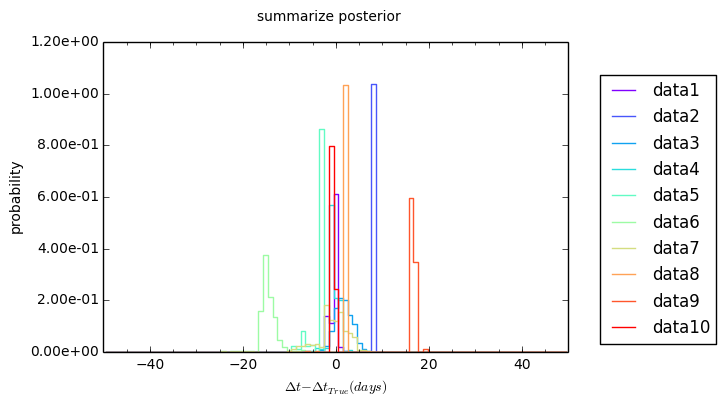
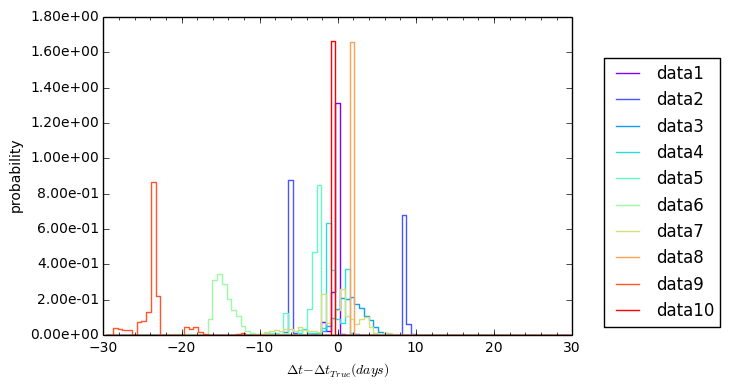
writing more docs

Changed region(s): [[0.0, 0.0308, 0.7879, 0.9231], [0.8182, 0.1231, 1.0, 0.8615], [0.3939, 0.9231, 0.5455, 0.9846]]

diff --git a/docs/desc-0000-sltimer-tdc2_gateway_analysis/main.tex b/docs/desc-0000-sltimer-tdc2_gateway_analysis/main.tex
@@ -15,6 +15,7 @@
 % Custom commands from LSST DESC, see texmf/styles/lsstdesc_macros.sty
 \usepackage{texmf/styles/lsstdesc_macros}
 \usepackage{graphics, graphicx}
+\usepackage{multirow}
 \graphicspath{{./}{./figures/}}
 \bibliographystyle{apj}
 
@@ -57,7 +58,7 @@ The paper will be structured as follows.  \textcolor{red}{more}
 \label{sec:method}
 In this section, we describe the process of our analysis step by step. 
 \subsection{Whitening method}
-The main difference between TDC2 and TDC1 data is that TDC2 tries to model the light curve taken by six different filter, which add additional variability to the light curves. We adopt the whitening method, which offsets the light curve to get a set of points that look more like they were taken in one filter. We test two kinds of whitening method. The first one is to offset  the magnitude of whole light curves to a common mean. The second one do the same thing as the first one, but instead of offsetting all the light curves, it offset light curves season by season. Obviously, the second one looks more reasonable because we don't expect that lightcurves in different bands have long term relations with each others. However, the second whitening will also introduced additional fluctuations to light curves, and will probably wash out the signal.  
+The main difference between TDC2 and TDC1 data is that TDC2 tries to model the light curve taken by six different filter, which add additional variability to the light curves. We adopt the whitening method, which offsets the light curve to get a set of points that look more like they were taken in one filter. We test two kinds of whitening method. The first one (which will be called Whitening 1 hereafter) is to offset  the magnitude of whole light curves to a common mean. The second one do the same thing as the first one, but instead of offsetting all the light curves, it offset light curves season by season. Obviously, the second one (which will be called Whitening 2 hereafter)looks more reasonable because we don't expect that lightcurves in different bands have long term relations with each others. However, the second whitening will also introduced additional fluctuations to light curves, and will probably wash out the signal.  
 
 \subsection{Additional Noise Model}
 We notice that the error in the lightcurve can be larger to the reported error in TDC2 data. For example, the data in different filters will have different mean amplitude. Though the difference is partially corrected by the whitening method, it will make our light curve noisier. The micro-lensing variability could also be different for data in different filters. Besides, the light curves are sampled at an average time step 4 days, and quasars might have some high frequency fluctuation, which will also add additional noise to our light curve. 
@@ -67,7 +68,7 @@ To address this issue, we assume a simple model with only one parameter $\sigma_
 \subsection{PyCS}
 PyCS is a package that implements free knot spline technique described by \cite{2013A&A...553A.120T}. It models both intrinsic quasar fluctuation and also fluctuation caused by micro-lensing with two spline functions. With the use of the PyCS package, we can compute the $\chi^2$ of the fitting for a given time delay $\Delta t$. 
 
-To analyze the data, we draw  a thousand time delay samples from -150 days to 150 days with a constant time step. For each time delay, we can compute a $\chi^2$. The log likelihood function, defined as $log(P(data \mid \Delta t))$, could be computed by the following formula,
+To analyze the data, we compute likelihood on 1000 time delay grids from -150 days to 150 days.  For each time delay, we can compute a $\chi^2$. The log likelihood function, defined as $log(P(data \mid \Delta t))$, could be computed by the following formula,
 \begin{equation}
 log(P(data \mid \Delta t))  = log (\Sigma_i  \frac{1}{\sqrt{2 \pi \sigma_i^2}} ) -\frac{1}{2} \chi^2,
 \end{equation}
@@ -132,10 +133,10 @@ $P(\Delta t \mid data) = P(data \mid \Delta t) P(\Delta t)$
 \label{sec:results}
 In this section, we'll show analysis on gateway one data as an example, and we'll give a summary posterior plot for all ten gateway data. The analysis on other 9 gateway data  will be leaved to the appendix. 
 \subsection{Analysis on gateway one data}
-We follow the methods described in section \ref{sec:method}. 
+We follow the methods described in section \ref{sec:method}.  For simplicity, in this subsection, I'll only show data that is whitened by whitening method 1. 
 \begin{enumerate}
-\item Determine $\sigma_{intrinsic}$: we need to determine $\sigma_{intrinsic}$. Fig \ref{fig:sigma1} shows how likelihood change with different $\sigma_{intrinsic}$ at different time delay. First, we find that there is a clear peak at $\sigma_{intrinsic}=0.202$, and this peak does not vary at different time delays. 
-Therefore, instead of sampling on $\sigma_{intrinsic}$ to time delay parameter space, we can find the optimal $\sigma_{intrinsic}$ at a given time delay first and then sample on time delay parameter space. 
+\item Determine $\sigma_{intrinsic}$: 
+Fig \ref{fig:sigma1} shows how likelihood change with different $\sigma_{intrinsic}$ at different time delay. First, we find that there is a clear peak at $\sigma_{intrinsic}=0.202$, and this peak does not vary at different time delays. In general, we need to compute likelihood on $\sigma_{intrinsic}$ to time delay parameter spaces. However, since the optimal $\sigma_{intrinsic}$ seems not varying for different time delay, we can find the optimal $\sigma_{intrinsic}$ at a given time delay first and then sample on time delay parameter space. 
 \begin{figure}[!h]
 \includegraphics[width=\textwidth, height=15cm, keepaspectratio]{sigma_0.png}
 \caption{Likelihood to $\sigma_{Intrinsic}$ plot}
@@ -143,17 +144,49 @@ Therefore, instead of sampling on $\sigma_{intrinsic}$ to time delay parameter s
 \end{figure}
 
 \item Compute Prior Likelihood and Posterior:
-We compute the prior by formula \ref{eqn:prior} and likelihood with the aid of PyCS code.  We combine the prior and likelihood to get posterior. The result is fig \ref{fig:log_data1}. 
+After finding the optimal $\sigma_{intrinsic}$, we rescale the noise of light curves by $\sigma_{new}=\sqrt{\sigma_{intrinsic}^2+\sigma_{old}^2}$. Then, we compute the prior by formula \ref{eqn:prior} and likelihood with the aid of PyCS code. The prior and likelihood will be combined to get posterior. Fig \ref{fig:log_data1} shows the result.  There are couples of things to be noticed. First, the constraint on time delay is improved from prior to posterior. Second, though prior information gives us a loose constraint on time delay, it damps some of the fake peaks on likelihood and helps us identify the true time delay on posterior. For example, though there is a clear peak at true time  delay on likelihood, there are some fake outliers at  $\Delta t =140$ to $150$ and $\Delta t =-130$ to $-150$. The prior, though gives a loose constraint on time delay, damps these outliers, which helps us identified true time delay from posterior. 
+
 \begin{figure}[!h]
 \includegraphics[width=\textwidth, height=15cm, keepaspectratio]{data1_full_log.png}
-\caption{Likelihood to $\sigma_{Intrinsic}$ plot}
+\caption{The top panel shows the likelihood distribution. The middle plot is the prior derived from equation \ref{eqn:prior}, and the bottom plot is the posterior $P(\Delta t \mid data)$ }. Dark dash line marks the correct time delay. 
 \label{fig:log_data1}
 \end{figure}
 \end{enumerate}
 
 
+\subsection{Summary of all ten gateway data sets}
+Fig \ref{fig:summary_post} and fig \ref{fig:summary_prior} show the posterior and prior distributions for all 10 data, which are also summarized in Table \ref{tab:summary}. 
+\begin{figure}[!h]
+\includegraphics[width=\textwidth, height=15cm, keepaspectratio]{summary_posterior_summary.png}
+\caption{}
+\label{fig:summary_post}
+\end{figure}
+\begin{figure}[!h]
+\includegraphics[width=\textwidth, height=15cm, keepaspectratio]{summary_prior_summary.png}
+\caption{}
+\label{fig:summary_prior}
+\end{figure}
 
-% ----------------------------------------------------------------------
+\begin{table}[]
+\centering
+\caption{My caption}
+\label{tab:summary}
+\begin{tabular}{|l|l|r|l|l|l|l|}
+\hline
+\multicolumn{1}{|c|}{\multirow{2}{*}{data}} & \multicolumn{2}{l|}{Prior}                                                    & \multicolumn{2}{l|}{Posterior (Whitening 1)}              & \multicolumn{2}{l|}{Posterior (Whitening 2)}              \\ \cline{2-7} 
+\multicolumn{1}{|c|}{}                      & $\delta\Delta t$(days) & \multicolumn{1}{l|}{$\delta\Delta t$(68$\%$) (days)} & $\delta\Delta t$ (days) & $\delta\Delta t$(68$\%$) (days) & $\delta\Delta t$ (days) & $\delta\Delta t$(68$\%$) (days) \\ \hline
+1                                           & 2.97                   & 3.90                                                 & -0.34                   & 0.30                            & -1.54                   & 1.50                            \\ \hline
+2                                           & -0.09                  & 2.85                                                 & -5.79                   & 7.36                            & -6.40                   & 0.30                            \\ \hline
+3                                           & 0.60                   & 3.45                                                 & 1.50                    & 1.80                            & 0.90                    & 0.75                            \\ \hline
+4                                           & 0.49                   & 1.65                                                 & -0.71                   & 1.35                            & -1.31                   & 0.90                            \\ \hline
+5                                           & 6.65                   & 6.91                                                 & -2.96                   & 0.60                            & -4.46                   & 2.25                            \\ \hline
+6                                           & -0.80                  & 4.05                                                 & -1.49                   & 1.35                            & -1.13                   & 10.8                            \\ \hline
+7                                           & 1.92                   & 3.75                                                 & -0.18                   & 3.45                            & 0.72                    & 4.5                             \\ \hline
+8                                           & 4.13                   & 7.96                                                 & 1.73                    & 0.15                            & 0.83                    & 2.10                            \\ \hline
+9                                           & -3.18                  & 9.01                                                 & -23.9                   & 1.05                            & -18.49                  & 2.70                            \\ \hline
+10                                          & -0.13                  & 3.00                                                 & -0.73                   & 0.15                            & -1.03                   & 0.15                            \\ \hline
+\end{tabular}
+\end{table}
 
 \section{Discussion}
 \label{sec:discussion}

diff --git a/python/desc/sltimer/worker.py b/python/desc/sltimer/worker.py
@@ -438,7 +438,12 @@ class SLTimer(object):
         ax.set_xlabel("$\Delta t - \Delta t_{True}(days)$")
         ax.set_ylabel("number of dataset")
         fig.savefig("{0}_summary_hist.png".format(outName))
-        print([tile84[index]-tile16[index] for index  in range(len(tile16))])
+
+        error = [(tile84[index]-tile16[index])/2.0 for index in range(len(tile16))]
+        print("medium: {0}".format(halftile))
+        print("68% error: {0}".format(error))
+        print("Accuracy: {0}".format(np.mean(np.array(halftile)/truth)))
+        print("Precision: {0}".format(np.mean(np.array(error)/truth)))
 
     def plot_likelihood_from_file(self, file_name,
                                   chisquare=False, likelihood=False, bins=20,
@@ -548,7 +553,7 @@ class SLTimer(object):
         ax1 = fig.add_subplot(gs[0, 0])
         ax2 = fig.add_subplot(gs[1, 0])
         ax3 = fig.add_subplot(gs[2, 0])
-        gs.update(left=0.01, right=0.99, hspace=0.3)
+        gs.update(left=0.23, right=0.97, hspace=0.3)
         def plotBatch(axes, result_inside, labelcolor=None):
             ax1 = axes[0]
             ax2 = axes[1]
@@ -587,7 +592,7 @@ class SLTimer(object):
         else:
             plotBatch(axes, result)
         plt.legend(loc=(1.05, 2.9))
-        fig.suptitle("log likelihood")
+#        fig.suptitle("log likelihood")
         fig.savefig("{0}_likelihood_{1}_samples.png".format(outName,
                                                             result[0].shape[0]))
         return
